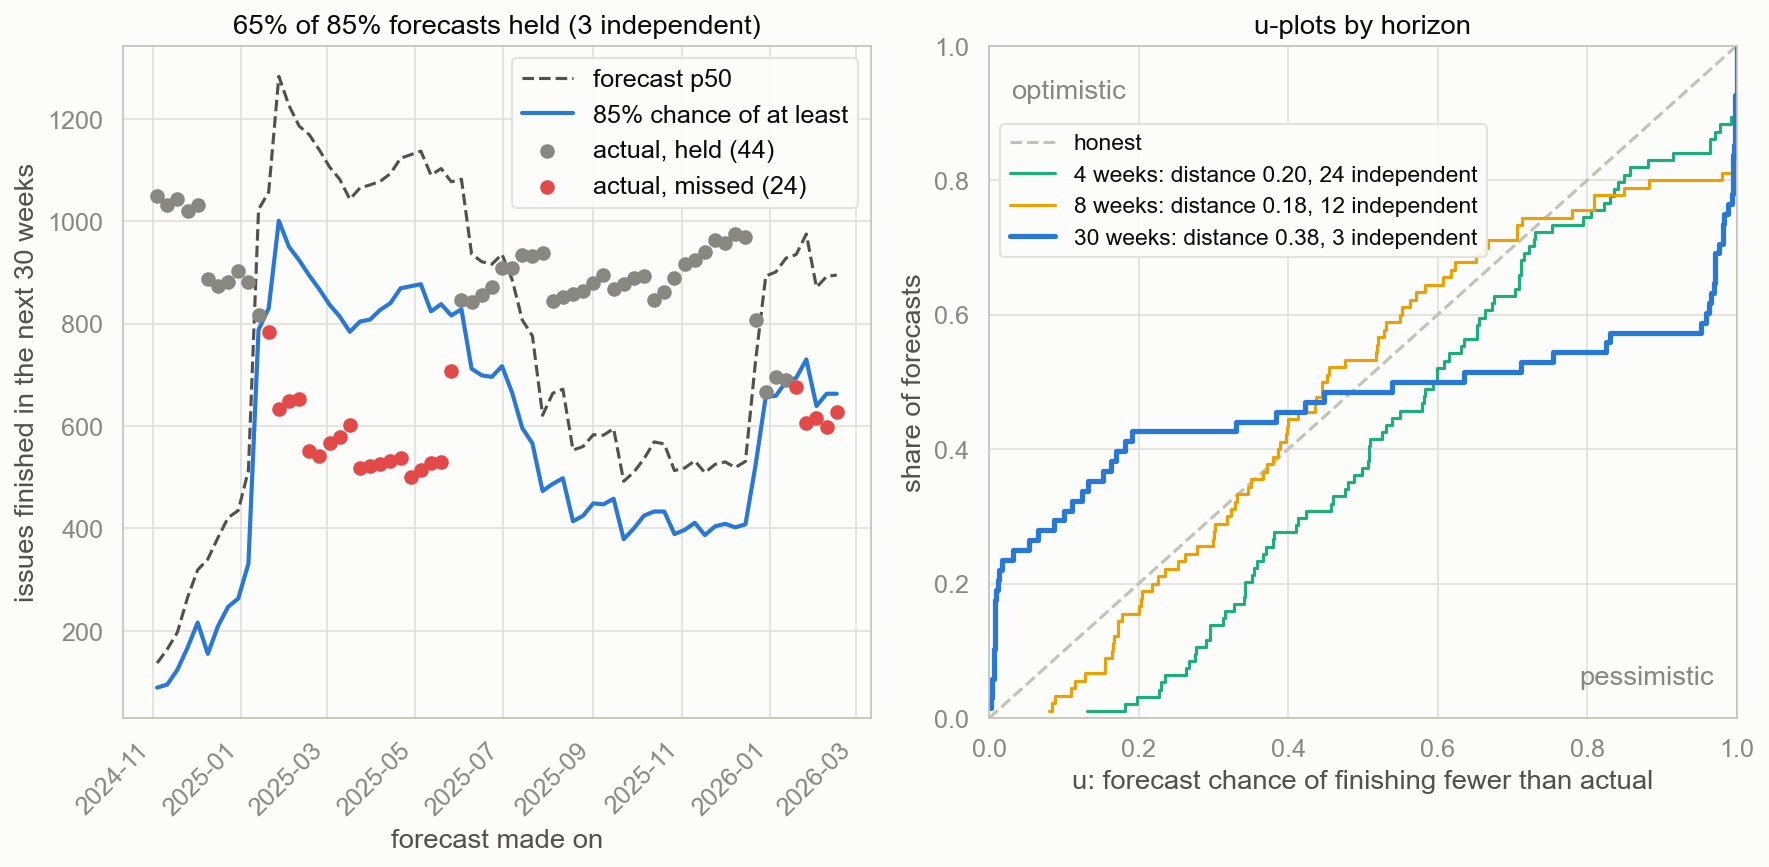
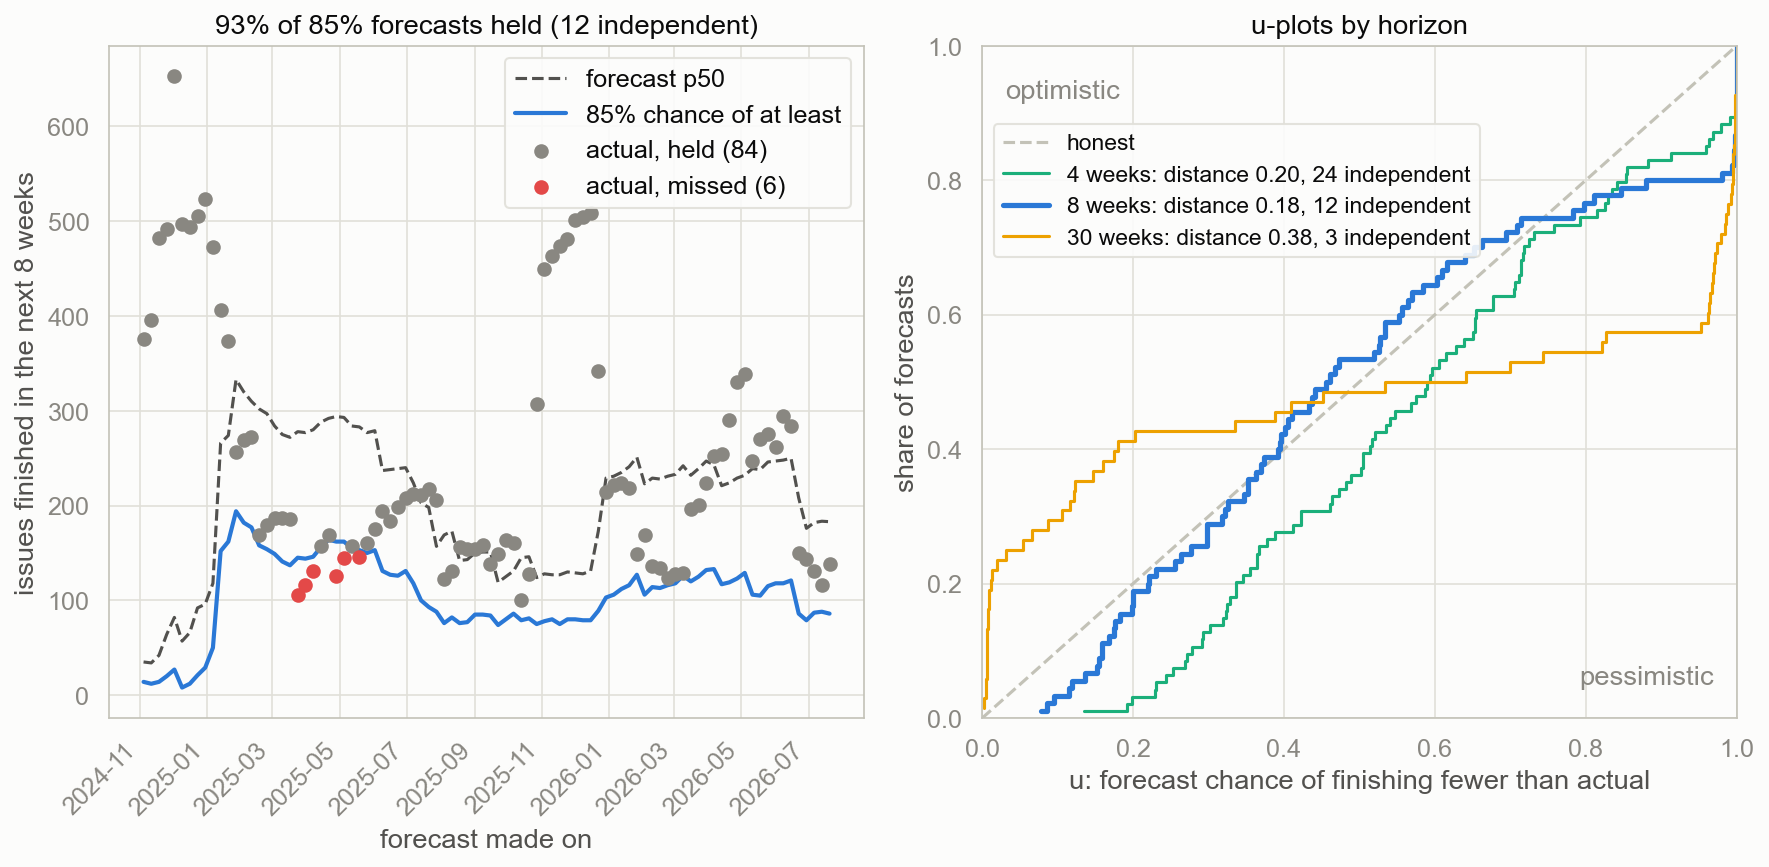
feat(forecast): judge the backtest at the longest horizon with evidence
The headline tile judged past forecasts over the backlog forecast's own
horizon, where weekly forecasts share most of their outcome: Kafka's 41
weeks held 2 independent outcomes, so the tile only said so, while its
8-week forecasts - 12 independent outcomes - kept just 52% of their 85%
promises, visible only in the table.

The tile and the chart's history panel now take the longest horizon
with at least 10 independent outcomes, else the longest there is. Kafka
reads "52%, fewer than promised" over 8 weeks; Hibernate "93%, as
promised". The forecast's own horizon stays in the table and u-plots.

diff --git a/tests/test_backtest.py b/tests/test_backtest.py
@@ -16,6 +16,7 @@ from metrics.services.backtest import (
     bootstrap_totals,
     choose_window,
     crps,
+    judged_summary,
     kolmogorov_distance,
     probability_integral,
     summarize_backtests,
@@ -248,3 +249,21 @@ def test_choose_window_prefers_the_shortest_of_windows_scoring_about_the_same():
         52: [_scored(8, 12, 102.1)],
     }
     assert choose_window(by_window, default=12, min_independent=10) == 26  # noqa: PLR2004
+
+
+def test_judged_summary_is_the_longest_horizon_with_enough_evidence():
+    summaries = [_scored(4, 24, 22.9), _scored(8, 12, 48.6), _scored(41, 2, 398.6)]
+    judged = judged_summary(summaries, min_independent=10)
+    assert judged is not None
+    assert judged.horizon == 8  # noqa: PLR2004
+
+
+def test_judged_summary_falls_back_to_the_longest_horizon():
+    summaries = [_scored(4, 6, 22.9), _scored(30, 1, 398.6)]
+    judged = judged_summary(summaries, min_independent=10)
+    assert judged is not None
+    assert judged.horizon == 30  # noqa: PLR2004
+
+
+def test_judged_summary_of_nothing_is_none():
+    assert judged_summary([]) is None

diff --git a/metrics/__main__.py b/metrics/__main__.py
@@ -56,6 +56,7 @@ from metrics.services.backtest import (
     backtest_windows,
     bootstrap_totals,
     choose_window,
+    judged_summary,
     summarize_backtests,
 )
 from metrics.services.calculator import (
@@ -768,13 +769,14 @@ def _report_backtest(  # noqa: PLR0913
             f" Kolmogorov distance {summary.kolmogorov:.2f}",
         )
     tables = {w: list(s.values()) for w, s in by_window.items()}
-    tile = backtest_tile(summaries.get(horizon))
     if horizon not in summaries:
         click.echo(f"Backtest: too little history for {horizon}-week forecasts")
-        return tile, tables, None
+    judged = judged_summary(list(summaries.values()))
+    if judged is None:
+        return backtest_tile(None), tables, None
     chart = output_dir / "forecast_backtest.png"
-    vis_service.vis_backtest(str(chart), runs[window], summaries, horizon)
-    return tile, tables, chart
+    vis_service.vis_backtest(str(chart), runs[window], summaries, judged.horizon)
+    return backtest_tile(judged), tables, chart
 
 
 def _report_delivery(  # noqa: PLR0913

diff --git a/metrics/services/backtest.py b/metrics/services/backtest.py
@@ -200,6 +200,19 @@ def choose_window(
     return default
 
 
+def judged_summary(
+    summaries: Sequence[BacktestSummary],
+    min_independent: int = MIN_INDEPENDENT_OUTCOMES,
+) -> BacktestSummary | None:
+    """Pick the longest horizon enough independent outcomes judge, else the longest.
+
+    The forecast's own horizon is usually too long for a verdict, while a
+    shorter one can already show that its promises fail.
+    """
+    judged = [s for s in summaries if s.independent >= min_independent]
+    return max(judged or summaries, key=lambda s: s.horizon, default=None)
+
+
 def summarize_backtests(results: Sequence[Backtest]) -> BacktestSummary | None:
     """Share of 85% claims that held, distance from honest u values, mean CRPS."""
     if not results:

diff --git a/README.md b/README.md
@@ -25,7 +25,7 @@ Every chart below comes from real public projects - the [Hibernate ORM](https://
 
 ![Monte Carlo forecast](docs/images/forecast.png)
 
-**Can you trust that date?** The same forecast, replayed from every Monday of two years of Hibernate with only what Jira showed that day. First it picks how many recent weeks to draw from: over 8 weeks, forecasts from the last 26 weeks scored a 12% lower CRPS than from the last 12, and the last 52 were no better than 26, so the report forecasts from 26. Over the 30 weeks the backlog forecast then promised, 44 of 68 "85% chance" promises came true - but 30-week forecasts made a week apart share 29 weeks of outcome, so two years hold just 3 independent ones, too few to judge, and the report says so instead of colouring the number red. Shorter horizons carry more evidence: over 4 weeks 99% of promises held (24 independent outcomes), over 8 weeks 93% (12) - cautious rather than optimistic.
+**Can you trust that date?** The same forecast, replayed from every Monday of two years of Hibernate with only what Jira showed that day. First it picks how many recent weeks to draw from: over 8 weeks, forecasts from the last 26 weeks scored a 12% lower CRPS than from the last 12, and the last 52 were no better than 26, so the report forecasts from 26. The backlog forecast promises 30 weeks, but 30-week forecasts made a week apart share 29 weeks of outcome, so two years hold just 3 independent ones - too few to judge. The report judges the longest horizon with enough evidence instead: over 8 weeks, 84 of 90 "85% chance" promises came true (12 independent outcomes), cautious rather than optimistic. Kafka, whose throughput halved over the same two years, keeps its forecast on the last 12 weeks and still sees only 52% of 8-week promises come true - the report flags that in red.
 
 ![Forecast backtest](docs/images/forecast_backtest.png)
 
@@ -106,7 +106,7 @@ Then open `output/report.html`.
 - **QA has its own name?** Same for the rework metric, e.g. `--testing-statuses "In review, QA"` (default: testing).
 - **Curious how much time is real work vs waiting?** Tell it where work happens, e.g. `--active-statuses "In Progress, In Development"` (default: in progress) - that powers the flow-efficiency number in the report: the share of cycle time spent in those statuses, so backlog waiting before work starts doesn't count.
 - **When will this release or epic be done?** Name its issues with `--forecast-jql 'fixVersion = "9.0"'` and get its own forecast next to the backlog's, at the pace of your main query's issues. If the team spends only part of its time on it, say so: `--forecast-focus 0.5` forecasts at half the throughput.
-- **Can you trust the forecast?** The report replays it: from every past Monday it forecasts, from only what Jira showed then, how many issues the team would finish, and checks what actually happened - over 4 and 8 weeks and over the forecast's own horizon. "85% forecasts held" says how often the 85% promise came true; a u-plot per horizon shows whether past forecasts leaned optimistic, pessimistic or overconfident. Forecasts a week apart share most of their outcome, so each horizon also counts its independent outcomes, and with fewer than 10 the tile states the count instead of a verdict. Status, resolution and assignee are rolled back through each issue's changelog, so reopened work counts as it stood then. It needs history: fetch a year or more (`resolved >= -365d OR resolution = Unresolved`).
+- **Can you trust the forecast?** The report replays it: from every past Monday it forecasts, from only what Jira showed then, how many issues the team would finish, and checks what actually happened - over 4 and 8 weeks and over the forecast's own horizon. "85% forecasts held" says how often the 85% promise came true; a u-plot per horizon shows whether past forecasts leaned optimistic, pessimistic or overconfident. Forecasts a week apart share most of their outcome, so each horizon also counts its independent outcomes; the tile judges the longest horizon with at least 10, and with none it states the count instead of a verdict. Status, resolution and assignee are rolled back through each issue's changelog, so reopened work counts as it stood then. It needs history: fetch a year or more (`resolved >= -365d OR resolution = Unresolved`).
 - **Forecasts from the pace that predicts your team best.** The same replay picks how many recent weeks of throughput the forecast draws from - 12, 26 or 52 - by the lowest CRPS, a score of how far past forecasts landed from what happened, at the longest short horizon with at least 10 independent outcomes. Windows within 5% of the best count as equal and the shortest wins, so a year-old pace needs a real edge; with too little history the forecast keeps the last 12 weeks. The report's table shows every window's scores.
 - **How does delivery look?** Point it at the GitLab project behind the work, `--gitlab-project group/app --gitlab-token <token>`, and the report adds DORA's four keys: deploys per week, change lead time from commit to deploy, change fail rate and recovery time. Each release tag is a deploy (`--deploy-tag-pattern`, default `^v?\d+\.\d+\.\d+$`); a deploy failed when the next one is a hotfix (a merge request labelled `hotfix` or from a `hotfix*` branch), a revert, or a rollback to an earlier tag's commit. Name your coding agents with `--agent-authors srv_bot,agent@example.com` to compare their changes with people's.
 - **Iterating on settings?** Fetch once with `--save-raw issues.json`, then rebuild the report as often as you like with `--from-raw issues.json` - no network, seconds instead of minutes, and the same numbers every time, since time-based metrics are computed as of the fetch.
